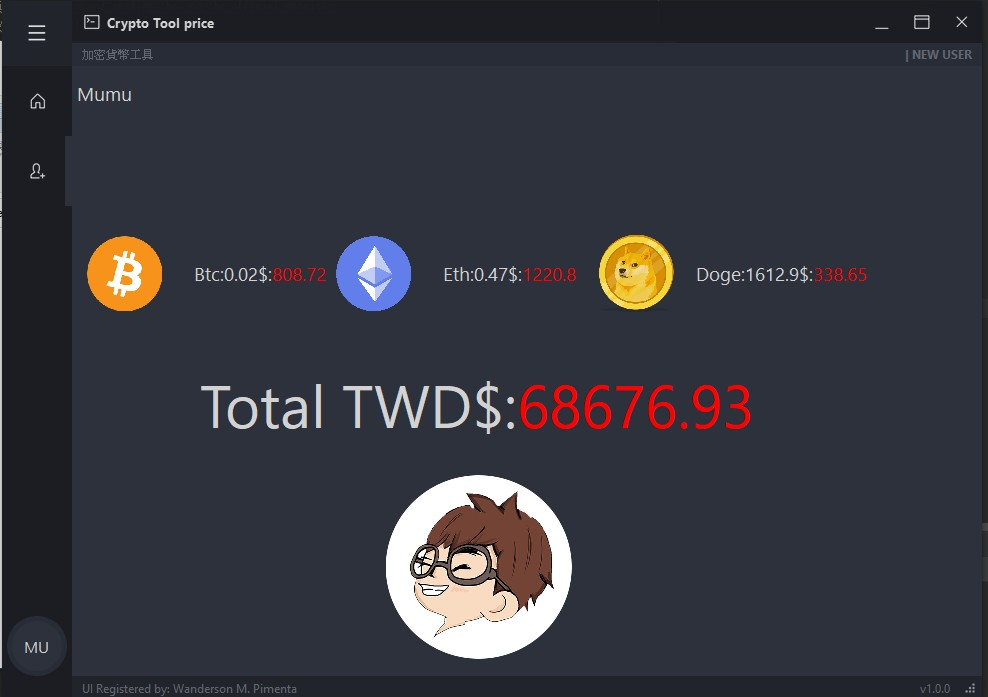
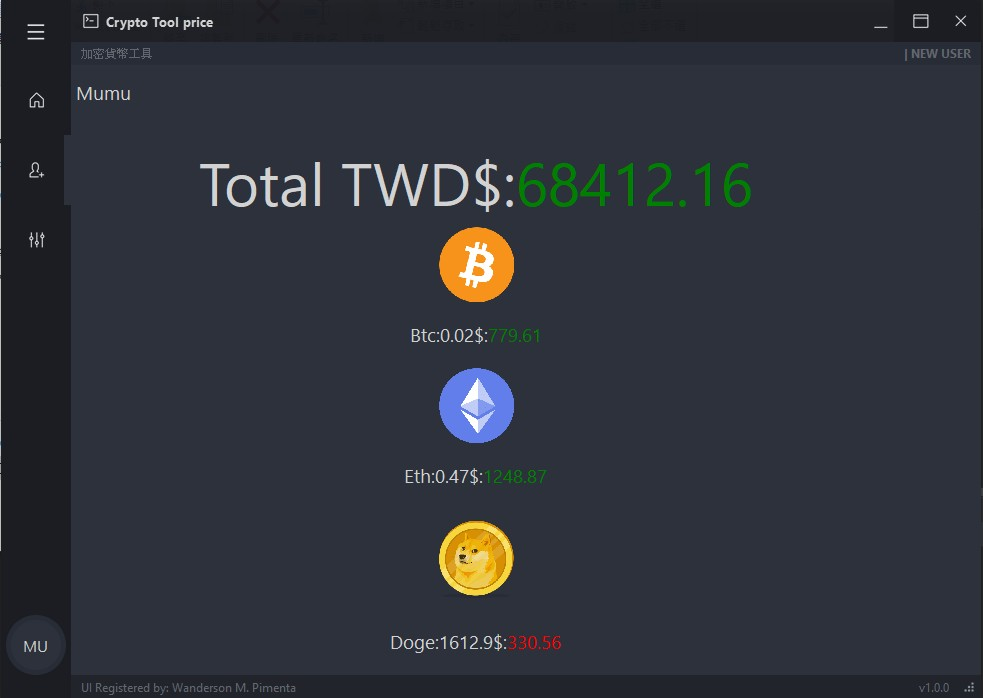
update screen shot

diff --git a/README.md b/README.md
@@ -20,6 +20,7 @@ crpytoassets.txt 裡面為自己擁有的加密貨幣數量 可自行更改
 
 ![alt text](https://github.com/MuMuShy/CryptoTool/blob/main/screenshot/2.jpg)
 ![alt text](https://github.com/MuMuShy/CryptoTool/blob/main/screenshot/1.jpg)
+![alt text](https://github.com/MuMuShy/CryptoTool/blob/main/screenshot/3.jpg)
 
 ## ToDo
 
